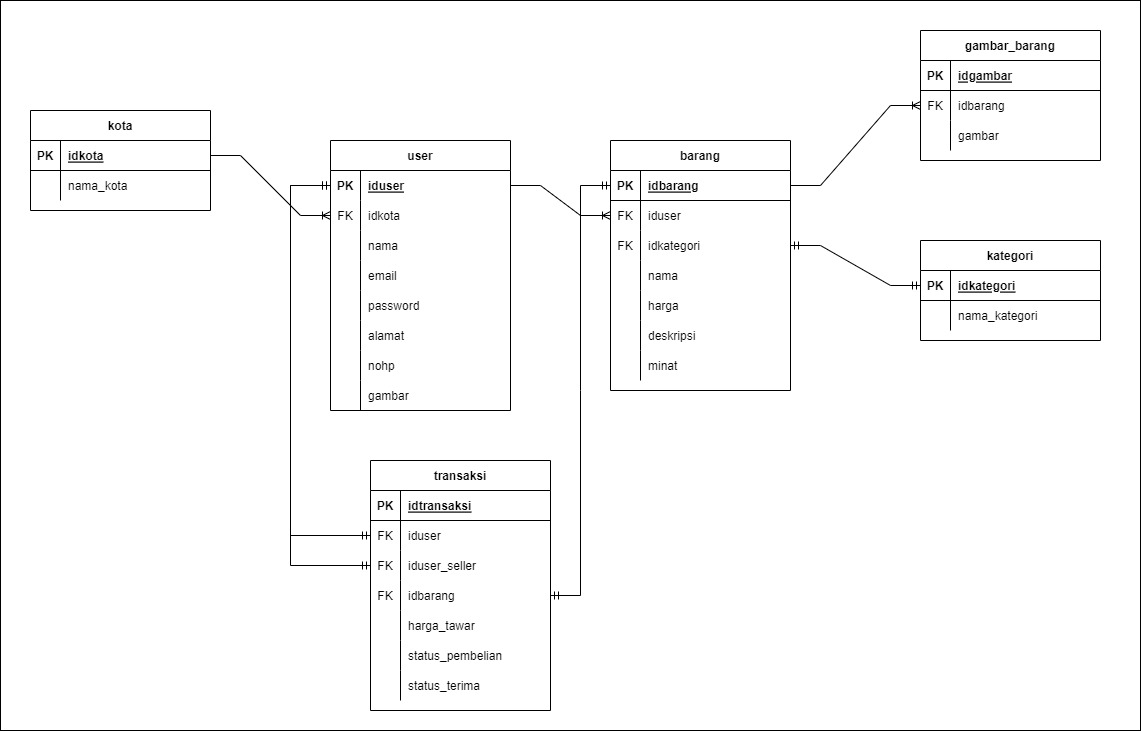
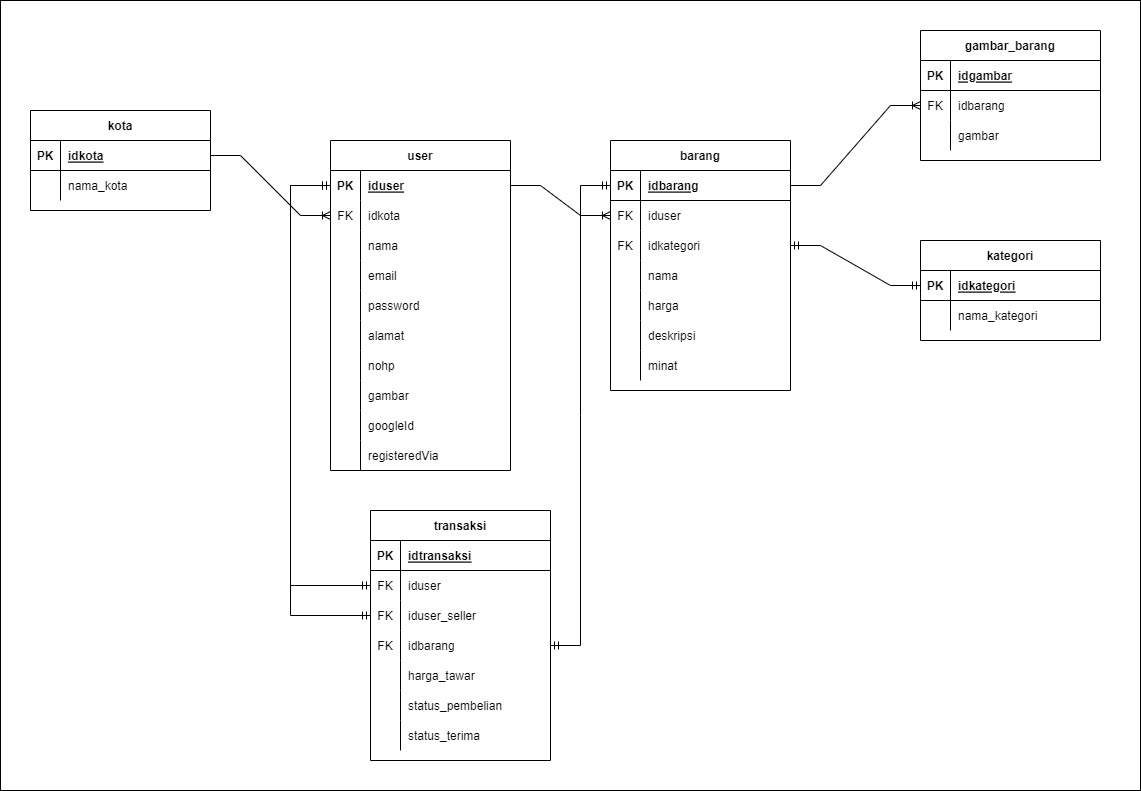
update barang

diff --git a/app/controllers/api/v1/productController.js b/app/controllers/api/v1/productController.js
@@ -37,32 +37,37 @@ module.exports = {
       const addProduct = await productService.addProduct(product)
       // console.log(req.body)
 
-      var file64 = []
-      var file = []
-      for (var i = 0; i < req.files.length; i++) {
-        file64.push(req.files[i].buffer.toString('base64'))
-        file.push(`data:${req.files[i].mimetype};base64,${file64[i]}`)
-        console.log(req.files[i].mimetype)
-      }
+      // console.log(req.files)
       // const filebase64 = req.files.buffer.toString('base64')
       // const file = `data:${req.files.mimetype};base64,${filebase64}`
-      cloudinary.uploader.upload(file, function (err, result) {
+      const upload = await cloudinary.uploader.upload(localUrl, function (
+        err,
+        result,
+      ) {
         if (err) {
           console.log(err)
-          return res.status(400).json({
-            message: 'Upload file failed',
+          res.status(400).json({
+            message: err.message,
           })
+          return
         }
         productService.addImageProduct({
           idbarang: addProduct.id,
           gambar: result.secure_url,
         })
-        res.status(201).json({
-          message: 'New Product Added',
-          product: addProduct,
-          image: result.secure_url,
-        })
       })
+      res.status(201).json({
+        message: 'New Product Added',
+        product: addProduct,
+      })
+
+      var urls = []
+      for (var i = 0; i < req.files.length; i++) {
+        var localUrl = req.files[i].buffer.toString('base64')
+        console.log(localUrl)
+        var result = await upload(localUrl)
+        urls.push(result.url)
+      }
     } catch (error) {
       res.status(400).json({
         message: error.message,

diff --git a/db/migrations/20220614140611-create-user.js b/db/migrations/20220614140611-create-user.js
@@ -39,6 +39,14 @@ module.exports = {
       gambar: {
         type: Sequelize.STRING,
       },
+      googleId: {
+        allowNull: true,
+        type: Sequelize.STRING,
+      },
+      registeredVia: {
+        allowNull: false,
+        type: Sequelize.STRING,
+      },
       createdAt: {
         allowNull: false,
         type: Sequelize.DATE,

diff --git a/app/models/user.js b/app/models/user.js
@@ -23,6 +23,8 @@ module.exports = (sequelize, DataTypes) => {
       alamat: DataTypes.TEXT,
       nohp: DataTypes.STRING,
       gambar: DataTypes.STRING,
+      googleId: DataTypes.STRING,
+      registeredVia: DataTypes.STRING,
     },
     {
       sequelize,

diff --git a/README.md b/README.md
@@ -1,7 +1,6 @@
-# Binar: Express.js
+# Binar Final Project: SecondHand WebApp
 
-Repository ini ditujukan sebagai boilerplate dalam membuat sebuah HTTP Server menggunakan Express.js
-Repository ini menggunakan Service Repository Pattern, yang artinya di dalam repository ini terdapat modul model, controller, service, dan repository.
+![alt text](./Database_FinalProjectBinar_FSW.jpg)
 
 ## Getting Started
 
